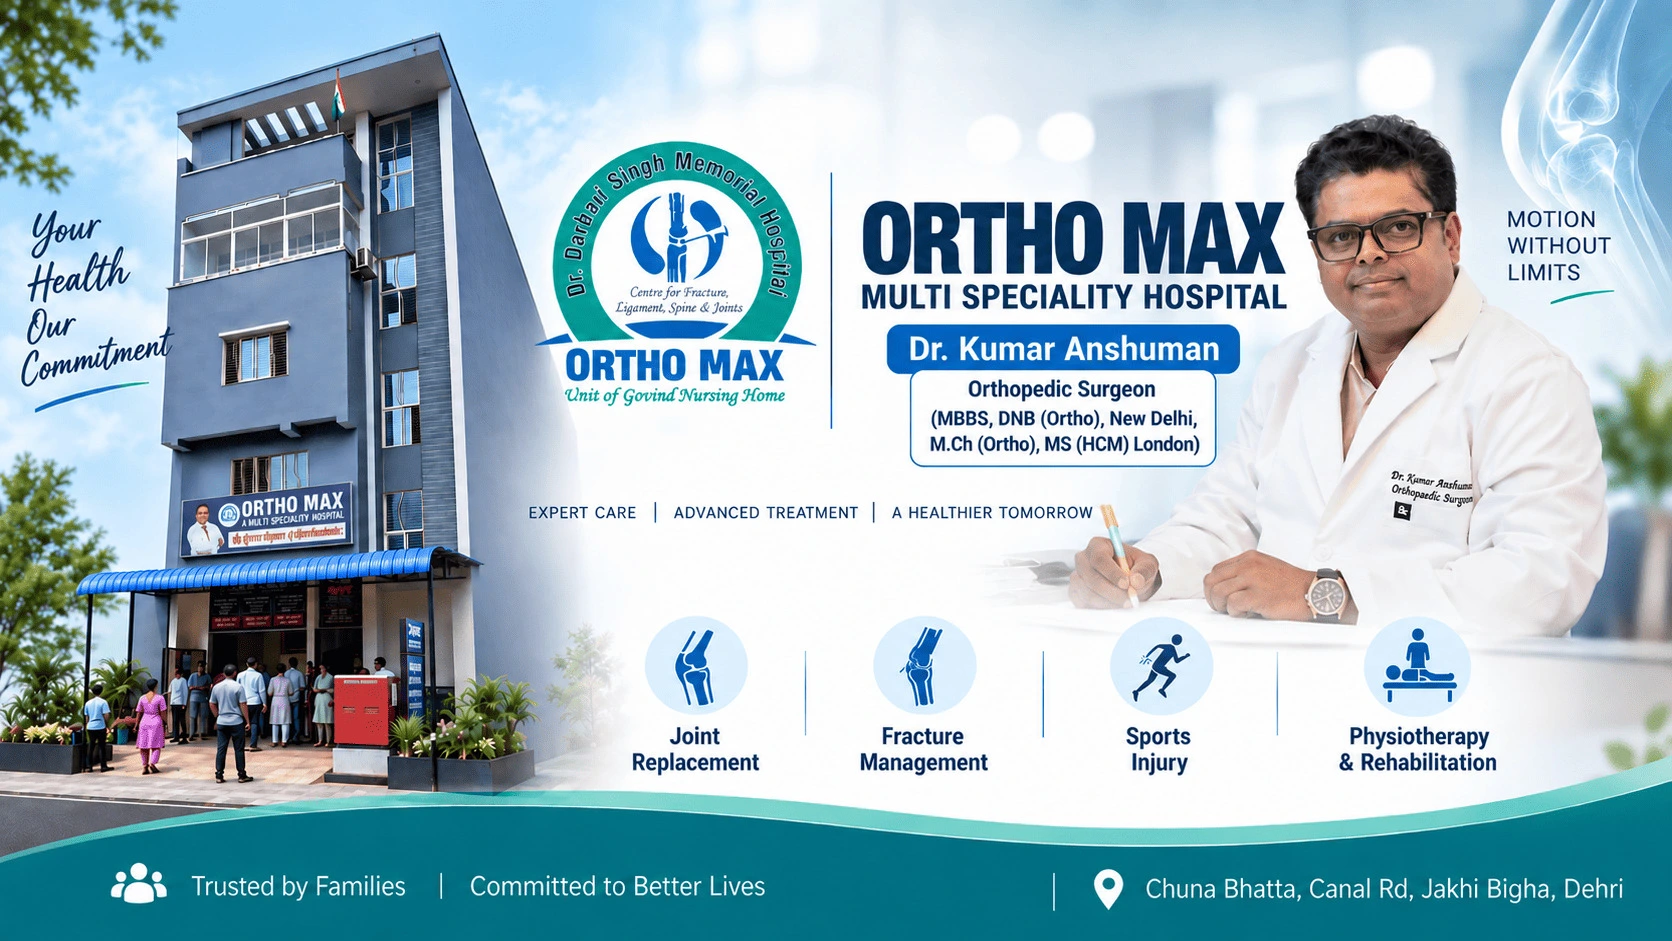
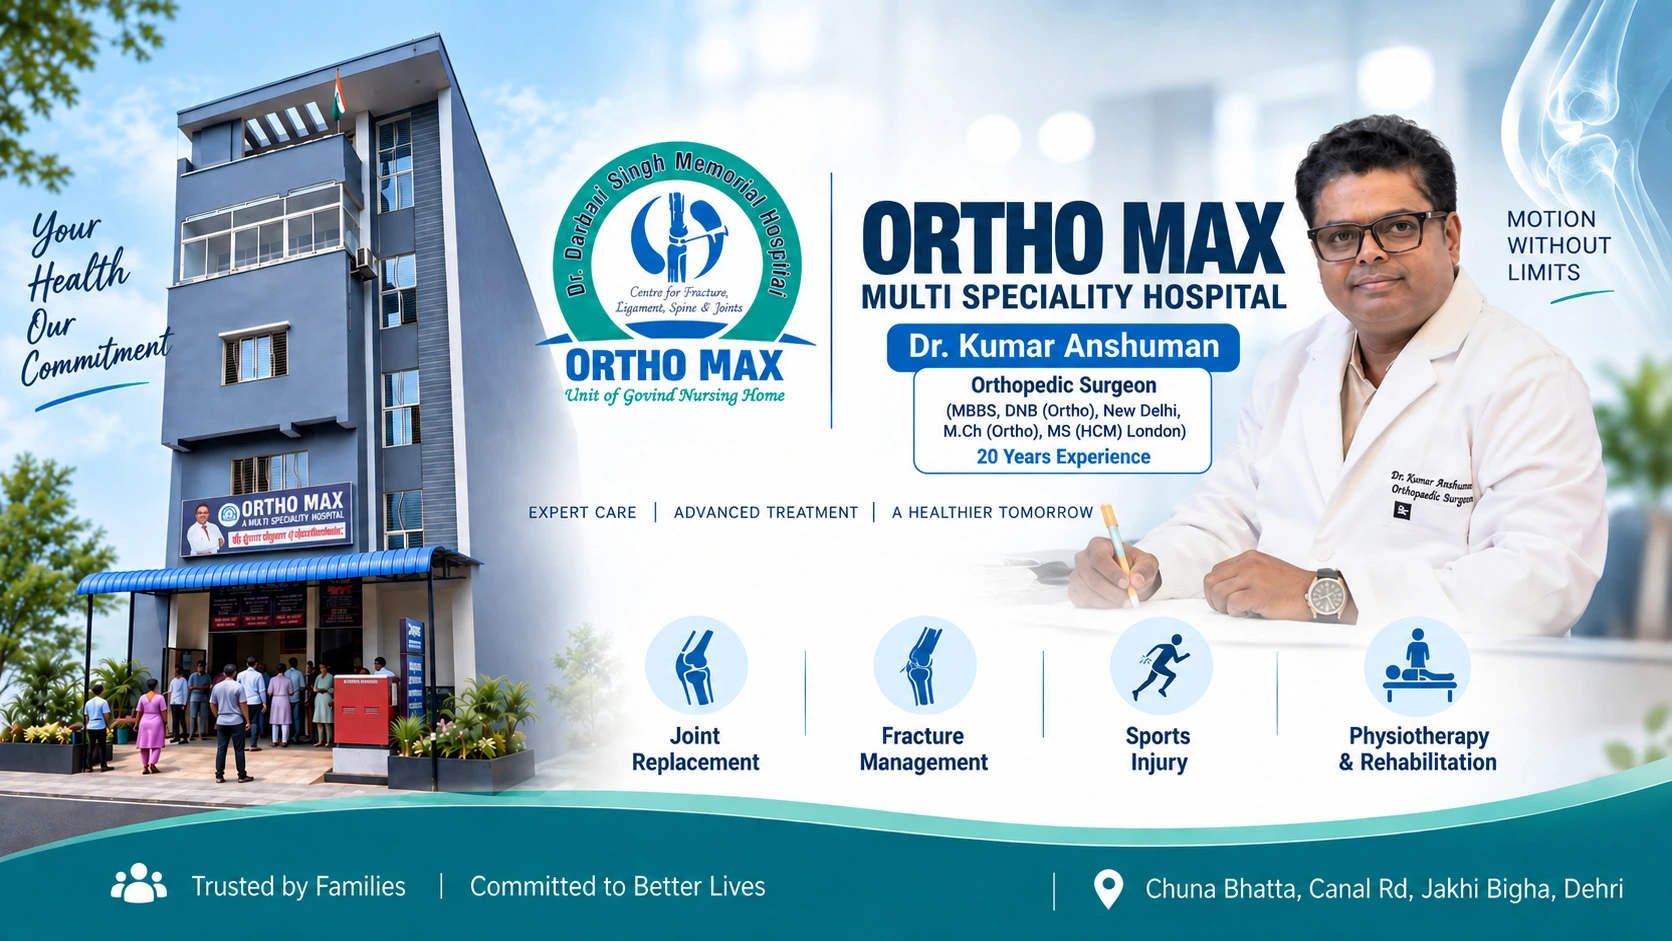
new  with iamge

diff --git a/src/app/page.tsx b/src/app/page.tsx
@@ -54,7 +54,7 @@ const LAT = 24.9160041, LNG = 84.1809366;
 export const metadata = {
   title: "ORTHO MAX MULTI SPECIALITY HOSPITAL | Dr. Kumar Anshuman | Orthopaedic surgeon | Dehri",
   description:
-    "ORTHO MAX MULTI SPECIALITY HOSPITAL on Canal Road, Dehri (Rohtas) — comprehensive care by Dr. Kumar Anshuman (MBBS, DNB (Ortho), New Delhi, M.Ch (Ortho), MS (HCM) London) for knee & joint replacement, fracture trauma care, knee & shoulder arthroscopy (ACL/PCL reconstruction), arthritis (गठिया / घुटने में दर्द), spine & sciatica (नस दबना), and post-surgical physiotherapy.",
+    "ORTHO MAX MULTI SPECIALITY HOSPITAL on Canal Road, Dehri (Rohtas) — comprehensive care with 20+ years of surgical expertise by Dr. Kumar Anshuman (MBBS, DNB (Ortho), New Delhi, M.Ch (Ortho), MS (HCM) London) for knee & joint replacement, fracture trauma care, knee & shoulder arthroscopy (ACL/PCL reconstruction), arthritis (गठिया / घुटने में दर्द), spine & sciatica (नस दबना), and post-surgical physiotherapy.",
   keywords: [
     "ORTHO MAX MULTI SPECIALITY HOSPITAL", "Dr Kumar Anshuman", "Orthopaedic surgeon Dehri",
     "Orthopedic Doctor Consultation in Dehri-on-Sone", "Knee Replacement Surgery Dehri-on-Sone",
@@ -69,7 +69,7 @@ export const metadata = {
   ],
   openGraph: {
     title: "ORTHO MAX MULTI SPECIALITY HOSPITAL — Dr. Kumar Anshuman | Orthopaedic surgeon | Dehri",
-    description: "Joint replacement, fracture & trauma, arthroscopy, spine and multi-speciality care for Dehri, Sasaram, Aurangabad and the Sone region.",
+    description: "Joint replacement, fracture & trauma, arthroscopy, spine and multi-speciality care with 20+ years experience for Dehri, Sasaram, Aurangabad and the Sone region.",
     images: [IMG.front],
     locale: "en_IN",
     type: "website",
@@ -229,7 +229,7 @@ const facilities = [
 const stats = [
   { n: "Immediate", l: "Emergency Trauma Care" },
   { n: "100%", l: "In-House Diagnostic Setup" },
-  { n: "15+", l: "Years Surgical Experience" },
+  { n: "20+", l: "Years Surgical Experience" },
   { n: "5000+", l: "Patients Treated & Recovered" },
 ];
 
@@ -317,6 +317,7 @@ export default function Home() {
             "@type": "Physician",
             name: "Dr. Kumar Anshuman",
             jobTitle: "Orthopaedic surgeon",
+            description: "Senior Orthopaedic & Joint Replacement Surgeon with 20+ years of surgical experience",
             medicalSpecialty: "Orthopaedic Surgery, Arthroscopy, Joint Replacement"
           },
         })
@@ -373,7 +374,7 @@ export default function Home() {
 
                 {/* Body Text with integrated keywords */}
                 <p className="mt-3.5 text-sm sm:text-base leading-relaxed text-white/85 max-w-2xl">
-                  Super-specialty knee &amp; hip joint replacement, arthroscopy, sports injury recovery and acute trauma care led by
+                  Super-specialty knee &amp; hip joint replacement, arthroscopy, sports injury recovery and acute trauma care backed by <strong className="text-[#A2DFF7] font-semibold">20+ years of surgical experience</strong> led by
                   <strong className="text-[#A2DFF7] font-semibold"> Dr. Kumar Anshuman | Orthopaedic surgeon | Dehri</strong> (MBBS, DNB (Ortho), New Delhi, M.Ch (Ortho), MS (HCM) London) — equipped with in-house modular OT, ICU, digital X-ray, and physiotherapy.
                 </p>
 
@@ -412,9 +413,14 @@ export default function Home() {
                     />
                   </div>
                   <div>
-                    <span className="inline-flex items-center gap-1 text-[11px] font-bold text-[#A2DFF7] uppercase tracking-wider bg-[#007B8A]/30 px-2 py-0.5 rounded-md mb-1 border border-[#A2DFF7]/20">
-                      <Stethoscope size={12} /> Lead Orthopaedic Surgeon
-                    </span>
+                    <div className="flex flex-wrap gap-1.5 mb-1.5">
+                      <span className="inline-flex items-center gap-1 text-[11px] font-bold text-[#A2DFF7] uppercase tracking-wider bg-[#007B8A]/30 px-2 py-0.5 rounded-md border border-[#A2DFF7]/20">
+                        <Stethoscope size={12} /> Lead Orthopaedic Surgeon
+                      </span>
+                      <span className="inline-flex items-center gap-1 text-[11px] font-bold text-amber-300 uppercase tracking-wider bg-amber-400/15 px-2 py-0.5 rounded-md border border-amber-400/30">
+                        <Star size={11} className="fill-amber-300" /> 20+ Years Experience
+                      </span>
+                    </div>
                     <h3 className="font-[family-name:var(--font-display)] text-lg sm:text-xl font-bold text-white leading-snug">
                       Dr. Kumar Anshuman
                     </h3>
@@ -469,14 +475,22 @@ export default function Home() {
               className="w-full h-80 object-cover object-top"
             />
             <div className="p-4 bg-[#F6FBFD] border-t border-[#A2DFF7]/60 text-center">
+              <span className="inline-block bg-[#007B8A]/10 text-[#005F6B] text-[11px] font-bold uppercase tracking-wider px-2.5 py-0.5 rounded-full mb-1 border border-[#007B8A]/20">
+                20+ Years Surgical Experience
+              </span>
               <p className="font-bold text-[#005F6B] text-base">Dr. Kumar Anshuman</p>
               <p className="text-xs text-[#007B8A] font-semibold mt-0.5">Orthopaedic surgeon | Dehri</p>
             </div>
           </div>
 
           <div>
-            <div className="inline-flex items-center gap-2 px-3 py-1 rounded-full bg-[#007B8A]/10 text-[#007B8A] text-xs font-semibold uppercase tracking-wider mb-2">
-              <Stethoscope size={14} /> Lead Orthopaedic Surgeon
+            <div className="flex flex-wrap items-center gap-2 mb-2">
+              <div className="inline-flex items-center gap-2 px-3 py-1 rounded-full bg-[#007B8A]/10 text-[#007B8A] text-xs font-semibold uppercase tracking-wider">
+                <Stethoscope size={14} /> Lead Orthopaedic Surgeon
+              </div>
+              <div className="inline-flex items-center gap-1.5 px-3 py-1 rounded-full bg-amber-500/10 border border-amber-500/30 text-amber-900 text-xs font-bold uppercase tracking-wider">
+                <Star size={13} className="text-amber-600 fill-amber-500" /> 20+ Years Clinical &amp; Surgical Experience
+              </div>
             </div>
 
             <h2 className="font-[family-name:var(--font-display)] text-3xl font-bold text-[#062226]">
@@ -490,14 +504,15 @@ export default function Home() {
             </p>
 
             <p className="mt-4 text-[#0A3A40] leading-relaxed">
-              Dr. Kumar Anshuman established <strong>ORTHO MAX MULTI SPECIALITY HOSPITAL</strong> on Canal Road to bring modern, super-specialty joint replacement and orthopaedic trauma surgery to Dehri-on-Sone, Sasaram, Aurangabad, and the entire Rohtas region.
+              With over <strong>20+ years of dedicated clinical and surgical experience</strong> in advanced orthopaedics, Dr. Kumar Anshuman established <strong>ORTHO MAX MULTI SPECIALITY HOSPITAL</strong> on Canal Road to bring modern, super-specialty joint replacement and orthopaedic trauma surgery to Dehri-on-Sone, Sasaram, Aurangabad, and the entire Rohtas region.
             </p>
             <p className="mt-3 text-[#0A3A40] leading-relaxed">
-              With dedicated training in complex trauma, arthroscopic ligament reconstruction (ACL / PCL), and knee &amp; hip replacement, patients receive complete care — from initial clinical diagnosis and digital X-ray imaging to surgery, second opinions, and complete mobility rehabilitation under one roof without needing to travel to Patna or Varanasi.
+              With extensive training and operating experience across premier national institutions (New Delhi) and international programmes (London), he specializes in complex trauma, arthroscopic ligament reconstruction (ACL / PCL), and knee &amp; hip replacement. Patients receive complete care — from initial clinical diagnosis and digital X-ray imaging to surgery, second opinions, and complete mobility rehabilitation under one roof without needing to travel to Patna or Varanasi.
             </p>
 
             <div className="mt-6 grid sm:grid-cols-2 gap-3 text-sm">
               {[
+                "20+ Years Experience in Joint Replacement & Trauma",
                 "Knee & Hip Joint Replacement (TKR)",
                 "Emergency Trauma & Accident Fractures",
                 "Knee Arthroscopy & ACL / PCL Reconstruction",
@@ -505,7 +520,6 @@ export default function Home() {
                 "Shoulder Arthroscopy & Rotator Cuff Repair",
                 "Geriatric Fracture Care & Osteoporosis Therapy",
                 "On-Site Physiotherapy & Post-Surgical Rehab",
-                "Orthopedic Second Opinions for Surgery",
               ].map((t) => (
                 <div key={t} className="flex items-center gap-2 text-[#0A3A40]">
                   <CheckCircle2 size={16} className="text-[#007B8A] shrink-0" />

diff --git a/src/app/layout.tsx b/src/app/layout.tsx
@@ -15,7 +15,7 @@ const plusJakarta = Plus_Jakarta_Sans({
 export const metadata: Metadata = {
   title: "ORTHO MAX MULTI SPECIALITY HOSPITAL | Dr. Kumar Anshuman | Orthopaedic surgeon | Dehri",
   description:
-    "ORTHO MAX MULTI SPECIALITY HOSPITAL, Canal Road, Dehri-on-Sone (Rohtas) — Leading Orthopaedic, Joint Replacement, Fracture Trauma & Arthroscopy Centre led by Dr. Kumar Anshuman. Specialized care for knee replacement, ACL reconstruction, arthritis (गठिया), sciatica (नस दबना) & physiotherapy.",
+    "ORTHO MAX MULTI SPECIALITY HOSPITAL, Canal Road, Dehri-on-Sone (Rohtas) — Leading Orthopaedic, Joint Replacement, Fracture Trauma & Arthroscopy Centre led by Dr. Kumar Anshuman (20+ Years Surgical Experience). Specialized care for knee replacement, ACL reconstruction, arthritis (गठिया), sciatica (नस दबना) & physiotherapy.",
   keywords: [
     "ORTHO MAX MULTI SPECIALITY HOSPITAL",
     "Dr Kumar Anshuman",
@@ -50,7 +50,7 @@ export const metadata: Metadata = {
   openGraph: {
     title: "ORTHO MAX MULTI SPECIALITY HOSPITAL | Dr. Kumar Anshuman | Orthopaedic surgeon | Dehri",
     description:
-      "Advanced orthopaedic care, total knee & hip joint replacement, arthroscopy, trauma surgery, and physiotherapy by Dr. Kumar Anshuman at Canal Road, Dehri-on-Sone, Bihar 821307.",
+      "Advanced orthopaedic care, total knee & hip joint replacement, arthroscopy, trauma surgery, and physiotherapy by Dr. Kumar Anshuman (20+ Years Experience) at Canal Road, Dehri-on-Sone, Bihar 821307.",
     type: "website",
     locale: "en_IN",
     siteName: "ORTHO MAX MULTI SPECIALITY HOSPITAL",
@@ -58,7 +58,7 @@ export const metadata: Metadata = {
   twitter: {
     card: "summary_large_image",
     title: "ORTHO MAX MULTI SPECIALITY HOSPITAL | Dr. Kumar Anshuman | Orthopaedic surgeon | Dehri",
-    description: "Premier Multi Speciality & Orthopaedic Hospital in Canal Road, Dehri, Rohtas, Bihar 821307.",
+    description: "Premier Multi Speciality & Orthopaedic Hospital in Canal Road, Dehri, Rohtas, Bihar 821307. Led by Dr. Kumar Anshuman with 20+ Years Experience.",
   },
   robots: {
     index: true,
@@ -83,7 +83,7 @@ export default function RootLayout({
               name: "ORTHO MAX MULTI SPECIALITY HOSPITAL",
               alternateName: "Orthomax Hospital Dehri",
               description:
-                "Premier super-specialty orthopaedic hospital and trauma care center in Dehri-on-Sone, Rohtas led by Dr. Kumar Anshuman, Senior Orthopaedic & Joint Replacement Surgeon.",
+                "Premier super-specialty orthopaedic hospital and trauma care center in Dehri-on-Sone, Rohtas led by Dr. Kumar Anshuman, Senior Orthopaedic & Joint Replacement Surgeon with 20+ years of surgical experience.",
               telephone: "+919467029173",
               address: {
                 "@type": "PostalAddress",
@@ -139,6 +139,7 @@ export default function RootLayout({
                 "@type": "Physician",
                 name: "Dr. Kumar Anshuman",
                 jobTitle: "Orthopaedic Surgeon",
+                description: "Senior Orthopaedic & Joint Replacement Surgeon with 20+ years of surgical experience.",
                 medicalSpecialty: [
                   "Orthopaedic Surgery",
                   "Joint Replacement",

diff --git a/src/app/components/PatientFirstSection.tsx b/src/app/components/PatientFirstSection.tsx
@@ -35,7 +35,7 @@ export default function PatientFirstSection({ waitingImage }: PatientFirstSectio
           Conventional orthopaedic journeys often require an X-ray at one private clinic, blood tests at another lab, and surgery in a distant metro city. At ORTHO MAX MULTI SPECIALITY HOSPITAL, digital X-rays, pathology, modular operation theatre, critical care ICU, and physiotherapy are available together on Canal Road.
         </p>
         <p className="mt-3 text-[#0A3A40] leading-relaxed">
-          This avoids critical treatment delays in trauma cases and allows Dr. Kumar Anshuman (Orthopaedic surgeon | Dehri) to personally monitor your recovery at every step.
+          This avoids critical treatment delays in trauma cases and allows Dr. Kumar Anshuman (Orthopaedic surgeon with 20+ years experience | Dehri) to personally monitor your recovery at every step.
         </p>
         <p className="font-[family-name:var(--font-dev)] mt-4 text-[#007B8A] font-semibold text-lg">
           बेहतरीन ऑर्थोपेडिक इलाज — आपके परिवार के नज़दीक।
